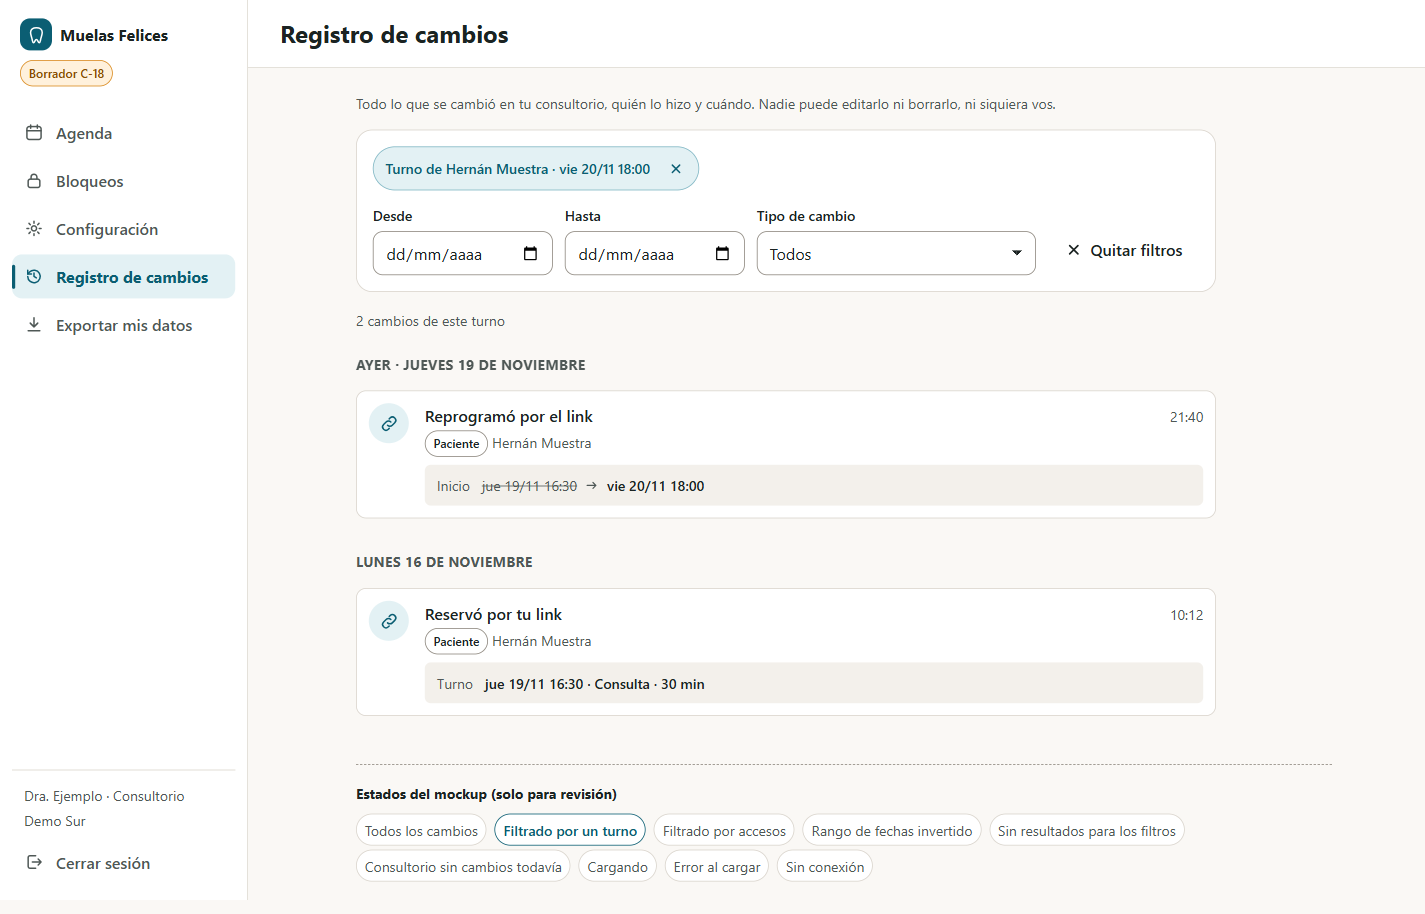
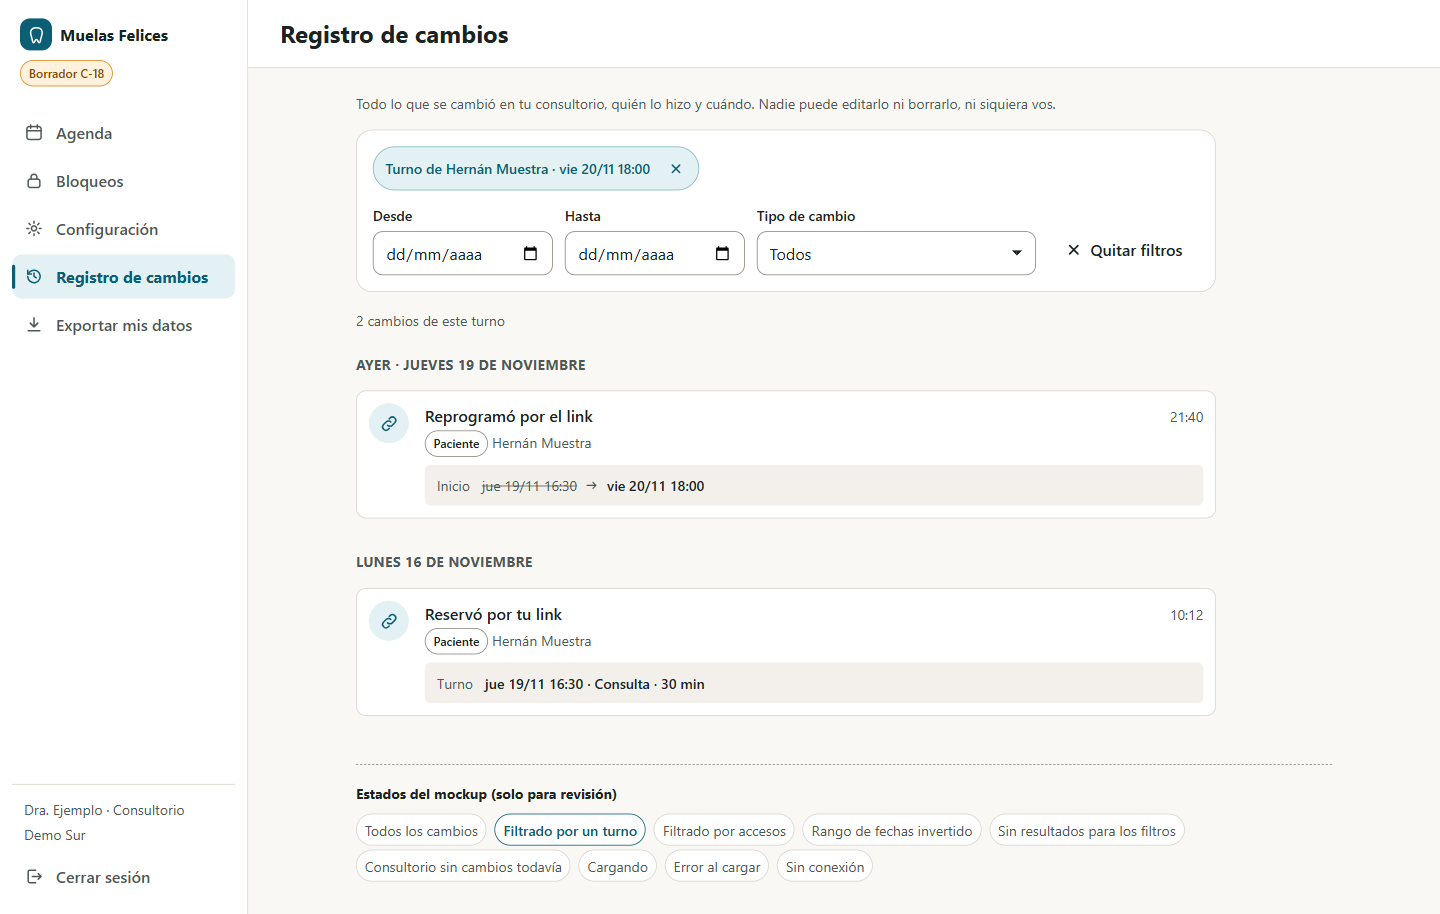
docs(auditoria): actor sin sesión en el login fallido y capturas de alto completo (C-18)

diff --git a/openspec/changes/historial-auditoria/mockups/registro.html b/openspec/changes/historial-auditoria/mockups/registro.html
@@ -172,8 +172,8 @@
               <li class="ev">
                 <span class="ico alerta" aria-hidden="true"><svg><use href="#i-key"/></svg></span>
                 <div>
-                  <div class="linea"><span class="que">Intento de inicio de sesión fallido</span><span class="hora">08:02</span></div>
-                  <span class="quien"><span class="actor">Sistema</span> <span class="ip">IP 203.0.113.24</span></span>
+                  <div class="linea"><span class="que">Intento fallido de iniciar sesión con tu email</span><span class="hora">08:02</span></div>
+                  <span class="quien"><span class="actor">Sin sesión</span> Contraseña incorrecta · 1 de 5 intentos <span class="ip">IP 203.0.113.24</span></span>
                 </div>
               </li>
             </ul>
@@ -221,8 +221,8 @@
               <li class="ev">
                 <span class="ico alerta" aria-hidden="true"><svg><use href="#i-key"/></svg></span>
                 <div>
-                  <div class="linea"><span class="que">Intento de inicio de sesión fallido</span><span class="hora">08:02</span></div>
-                  <span class="quien"><span class="actor">Sistema</span> <span class="ip">IP 203.0.113.24</span></span>
+                  <div class="linea"><span class="que">Intento fallido de iniciar sesión con tu email</span><span class="hora">08:02</span></div>
+                  <span class="quien"><span class="actor">Sin sesión</span> Contraseña incorrecta · 1 de 5 intentos <span class="ip">IP 203.0.113.24</span></span>
                 </div>
               </li>
             </ul>

diff --git a/openspec/changes/historial-auditoria/design.md b/openspec/changes/historial-auditoria/design.md
@@ -88,7 +88,8 @@ LIMIT :tamano + 1
   - Instantes en la zona del consultorio con `shared/fechas.ts`, estados con su nombre, minutos y Sí/No.
   - Para `nota_interna` se muestra el texto completo: es del odontólogo, no del paciente.
   - Una clave desconocida se muestra cruda.
-- **IP**: viene en la respuesta y se muestra solo en los eventos de acceso (`LOGIN_*` y `PASSWORD_*`), donde sirve para detectar un acceso ajeno. En el resto es ruido.
+- **IP**: viene en la respuesta y se muestra solo en los eventos de acceso (`LOGIN_*` y `PASSWORD_*`), donde sirve para detectar un acceso ajeno. En el resto es ruido. Decidido por Maxi.
+- **Actor sin id**: `LOGIN_FALLIDO` se registra con `actor_tipo = ODONTOLOGO` y `actor_id` nulo, porque quien intenta todavía no está autenticado (C-05, design D9). La UI lo muestra como **"Sin sesión"**, con el texto "Intento fallido de iniciar sesión con tu email", el número de intento (`intentos_fallidos` de 5) y la IP. Nunca como "Sistema": ese actor queda para operaciones internas, como el pase de plan de RN-PL-04 (revisión de Maxi al PR #35). El catálogo cubre cualquier evento con `actor_id` nulo: "Sin sesión" si el tipo es `ODONTOLOGO` o `PACIENTE`, y "Sistema" solo si el tipo es `SISTEMA`.
 
 ### D7 — Fechas del filtro
 - `desde` y `hasta` son `LocalDate` en la zona del consultorio (RN-TE-05). El intervalo es `[desde 00:00 local, (hasta + 1) 00:00 local)`, convertido a `Instant` con la zona actual del consultorio.
@@ -118,12 +119,14 @@ LIMIT :tamano + 1
 
 ## Open Questions
 
-Para la revisión de Maxi:
+Resueltas por Maxi en la revisión del PR #35 (2026-11-20):
 
-1. **Orden del registro**: propongo del más nuevo al más viejo, como cualquier registro de actividad. El historial de un turno va del más viejo al más nuevo, como dice US-040. CHANGES.md dice "orden cronológico" para los dos. ¿Se confirma?
-2. **Eventos de acceso en el registro** (`LOGIN_EXITOSO` y `LOGIN_FALLIDO`): ¿se muestran junto con el resto (propuesta, con su grupo "Accesos" en el filtro) o se ocultan por defecto?
-3. **IP visible solo en los accesos** (D6): ¿se confirma o se muestra en todos los eventos?
-4. **Contexto del turno con su estado actual** (D3): ¿alcanza, o hace falta el horario de ese momento? Este último requiere reconstruirlo desde los eventos.
+1. **Orden**: el registro del consultorio va del más nuevo al más viejo, y el historial del turno en orden cronológico (US-040). "Orden cronológico" de CHANGES.md §C-18 se corrige en el commit de cierre.
+2. **Eventos de acceso**: se muestran junto con el resto, con el grupo "Accesos" en el filtro.
+3. **IP**: solo en los eventos de acceso (`LOGIN_*` y `PASSWORD_*`) (D6).
+4. **Contexto del turno**: alcanza con su estado actual, porque cada fila muestra el "antes → después" (D3).
+
+Ajustes de mockup pedidos y aplicados: el actor "Sin sesión" para `LOGIN_FALLIDO` (D6) y las capturas de desktop con la barra lateral de alto completo.
 
 ## UI Mockups
 
@@ -131,5 +134,5 @@ Para la revisión de Maxi:
 - Decision: yes (2026-11-20). Dos pantallas: `/app/auditoria` y la tarjeta "Historial" del detalle del turno.
 - Mockups: [`mockups/registro.html`](mockups/registro.html) y [`mockups/turno-historial.html`](mockups/turno-historial.html), con su [README](mockups/README.md).
 - Approval: pending
-- Preview: rendered (2026-11-20), 24 capturas en [`mockups/previews/`](mockups/previews/) a 390x844 y 1440x900, sin desborde horizontal en 360, 390 y 1440 px y sin errores de consola.
+- Preview: rendered (2026-11-20, versión 2 con los ajustes de la revisión del PR #35), 24 capturas en [`mockups/previews/`](mockups/previews/) a 390x844 y 1440 de ancho, sin desborde horizontal en 360, 390 y 1440 px y sin errores de consola.
 - Visual verify: pendiente (tarea 6.1).

diff --git a/openspec/changes/historial-auditoria/mockups/README.md b/openspec/changes/historial-auditoria/mockups/README.md
@@ -4,7 +4,7 @@
 
 - Design system revision: 1
 - Preview: rendered (2026-11-20).
-  - 24 capturas a 390×844 (del tamaño de la ventana, para que la navegación inferior fija no tape contenido) y 1440×900 (página completa).
+  - 24 capturas a 390×844 (del tamaño de la ventana, para que la navegación inferior fija no tape contenido) y a 1440 de ancho con la ventana del alto de la página. Así la barra lateral llega hasta abajo, igual que en las capturas de C-13.
   - Sin desborde horizontal en 360, 390 y 1440 px, y sin errores de consola.
 - Preparado e implementa: Mati (trabajo anticipado). El plan del equipo le asignaba el mockup a Octi. El código se escribe cuando C-12 y C-13 estén `[x]` y Maxi apruebe estos mockups y la propuesta.
 
@@ -48,7 +48,7 @@ Para verlos: servir la raíz del repo (`python -m http.server`) y entrar a `/ope
 4. **Tipo de cambio agrupado por tema** (`optgroup`): Turnos, Bloqueos, Configuración, Pacientes, Accesos y Exportaciones, en lenguaje de usuario y no con los códigos (design D6).
 5. **Filtro por turno como chip removible**. Se llega con "Ver en el registro de cambios" desde el detalle. Los filtros viven en la URL (design D8).
 6. **IP visible solo en los accesos** (design Open Question 3), en tipografía mono y discreta.
-7. **Un intento de sesión fallido** usa el ícono en tono de alerta, para que se destaque al recorrer la lista.
+7. **Un intento de sesión fallido** usa el ícono en tono de alerta, para que se destaque al recorrer la lista. Se muestra con el actor **"Sin sesión"**, porque C-05 lo registra como `ODONTOLOGO` sin id, nunca como "Sistema", con el número de intento y la IP (revisión de Maxi).
 8. **El error del historial no rompe el detalle**: la tarjeta muestra su propio error con "Reintentar".
 9. **Sin conexión**: el registro no se cachea (tiene datos personales), así que se muestra el aviso y no hay filtros.
 

diff --git a/openspec/changes/historial-auditoria/specs/pantalla-registro-cambios/spec.md b/openspec/changes/historial-auditoria/specs/pantalla-registro-cambios/spec.md
@@ -64,6 +64,14 @@ Los valores anterior y nuevo MUST mostrarse con etiquetas en español y en el fo
 - **WHEN** se muestra
 - **THEN** la fila muestra `campo_nuevo` con su valor anterior y nuevo
 
+### Requirement: Actor sin sesión
+Un evento con `actor_id` nulo y tipo `ODONTOLOGO` o `PACIENTE` MUST mostrarse con el actor "Sin sesión", nunca como "Sistema". "Sistema" queda solo para el tipo `SISTEMA`.
+
+#### Scenario: Login fallido
+- **GIVEN** un `LOGIN_FALLIDO` con actor `ODONTOLOGO` sin id, 1 intento fallido y la IP `203.0.113.24`
+- **WHEN** se muestra en el registro
+- **THEN** la fila dice "Intento fallido de iniciar sesión con tu email", con el actor "Sin sesión", "1 de 5 intentos" y la IP
+
 ### Requirement: Accesibilidad del registro
 La sección y la tarjeta MUST cumplir AA: la lista como lista semántica con encabezados por día, los "antes → después" leíbles por lectores de pantalla ("antes 10:00, después 11:00"), objetivos táctiles de al menos 44 px, foco visible, y estados de actor y acción con texto, no solo color.
 

diff --git a/openspec/changes/historial-auditoria/tasks.md b/openspec/changes/historial-auditoria/tasks.md
@@ -10,7 +10,7 @@
 ## 1. Preparación
 
 - [ ] 1.1 Rebasar sobre `main` con C-12 y C-13 mergeados. Verificar el puerto de lectura del turno de C-12 (design D2), los nombres de columnas de `turno`, `paciente` y `usuario` que usa D3, y las acciones que publican los módulos (D6) (verificación: suite existente en verde y la lista de acciones en el PR)
-- [ ] 1.2 Volcar al design las respuestas de Maxi a §Open Questions, ajustando specs y tareas si cambian (verificación: `openspec validate historial-auditoria --strict` en verde)
+- [x] 1.2 Volcar al design las respuestas de Maxi a §Open Questions (revisión del PR #35) (verificación: `openspec validate historial-auditoria --strict` en verde)
 
 ## 2. Dominio y cursor
 

diff --git a/openspec/changes/historial-auditoria/proposal.md b/openspec/changes/historial-auditoria/proposal.md
@@ -5,7 +5,7 @@
 > Es trabajo anticipado. Se apoya en C-03 (mergeado: `evento_auditoria` append-only), en la propuesta y los mockups de C-13 (mergeados en `openspec/changes/frontend-agenda/`) y en las propuestas de C-15 (#30) y C-19 (#32), que agregan eventos al registro. C-12 todavía no tiene propuesta. El código no se escribe hasta que se cumplan tres condiciones:
 > - C-12 y C-13 están `[x]`.
 > - Maxi aprobó esta propuesta y los mockups (modo `system-and-mockups`).
-> - Las decisiones de `design.md` §Open Questions están resueltas.
+> - Las preguntas de `design.md` §Open Questions ya las resolvió Maxi en la revisión del PR #35.
 
 ## Why
 

diff --git a/openspec/changes/historial-auditoria/specs/consulta-auditoria/spec.md b/openspec/changes/historial-auditoria/specs/consulta-auditoria/spec.md
@@ -94,6 +94,11 @@ Cada evento SHALL traer el nombre del actor: nombre y apellido del odontólogo s
 - **WHEN** se lee su evento `TURNO_CREADO`
 - **THEN** el actor es `PACIENTE` con nombre `Paciente Uno Prueba`, y el contexto trae el inicio del turno y el paciente
 
+#### Scenario: Intento de inicio de sesión fallido
+- **GIVEN** un `LOGIN_FALLIDO` registrado con actor `ODONTOLOGO` sin `actor_id`
+- **WHEN** se lee el evento
+- **THEN** el actor es `ODONTOLOGO` sin id ni nombre, y el evento trae la IP
+
 #### Scenario: Evento del sistema
 - **WHEN** se lee un evento con actor `SISTEMA`
 - **THEN** el actor no trae nombre
